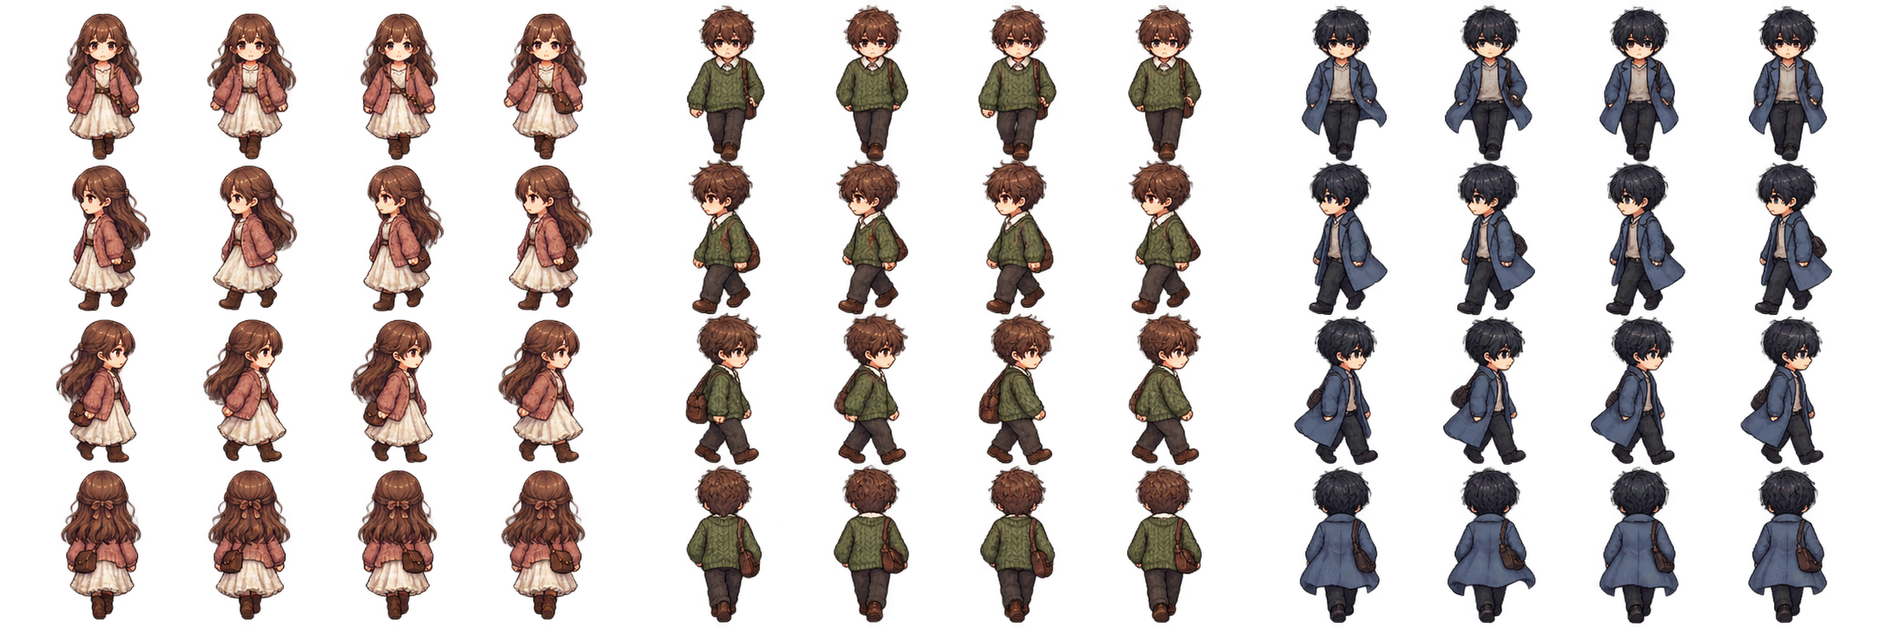
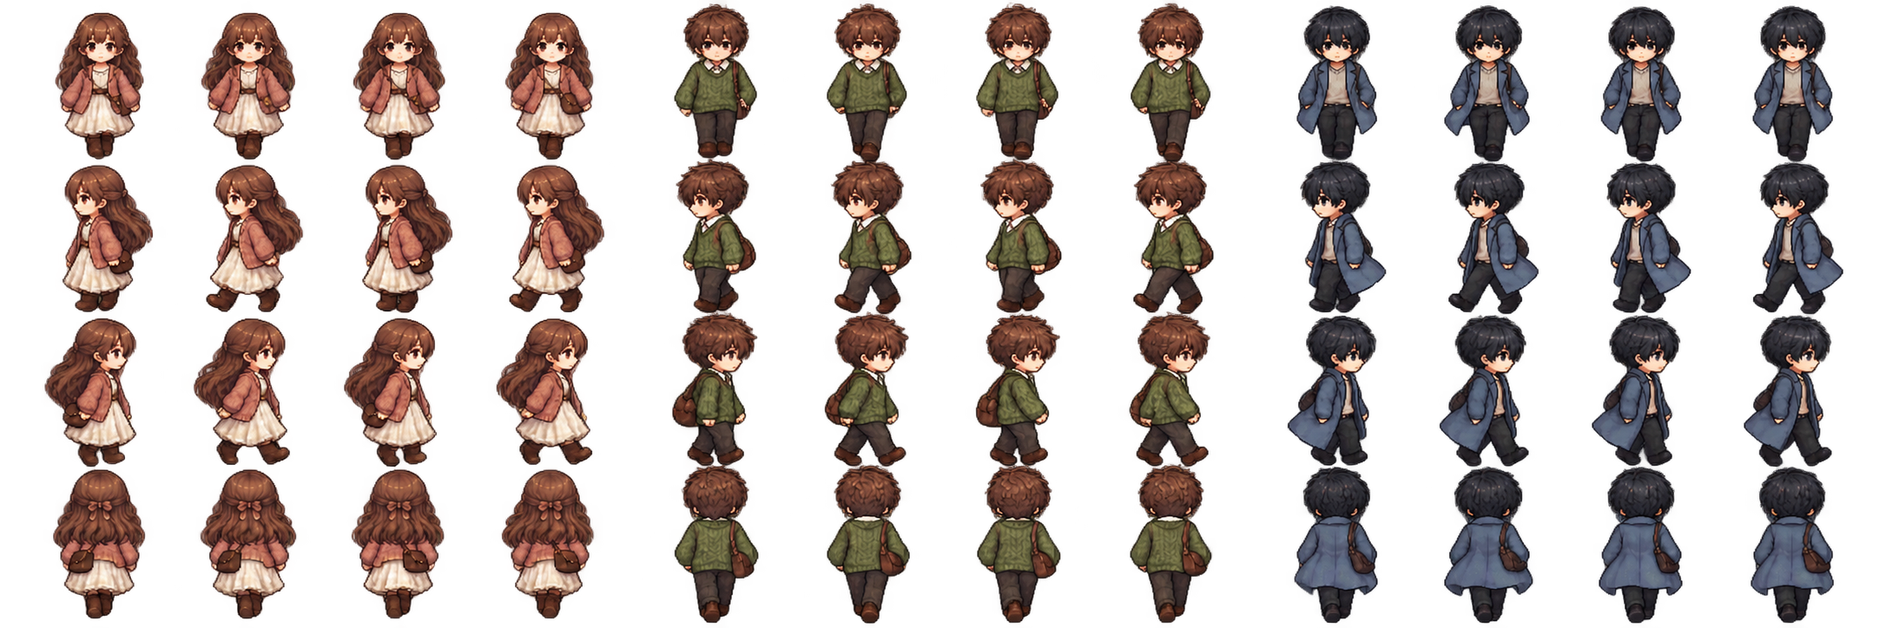
fix(world): bind character uploads and restore continuous walking with idle poses

Changed region(s): [[0.0, 0.0, 0.6478, 1.0], [0.6786, 0.0, 0.8946, 1.0], [0.9254, 0.0, 0.9871, 1.0]]

diff --git a/frontend/character-looks-ui.js b/frontend/character-looks-ui.js
@@ -11,32 +11,80 @@ async function readImage(file,{sprite=false,frames=4}={}){
 }
 export function mountCharacterLooksUI({api,getWorld,refresh,toast,report}){
   const box=node('dialog');box.id='world-looks-dialog';box.className='world-panel';
-  box.innerHTML='<header><h2>人物 · 形象</h2><button id="looks-close" aria-label="关闭人物形象">×</button></header><label>人物<select id="looks-owner"></select></label><p>形象绑定现有人物，身份设定仍在人设名册中编辑。</p><div class="looks-previews"><img id="looks-portrait" alt="对话立绘预览"><canvas id="looks-sprite" width="192" height="192" aria-label="四方向行走预览"></canvas></div><label>默认示例形象<select id="looks-skin"><option value="0">棕粉开衫</option><option value="1">苔绿毛衣</option><option value="2">蓝灰外套</option></select></label><label>对话立绘<select id="looks-portrait-choice"></select></label><label class="file-button">添加立绘（最多八张）<input id="looks-portrait-file" type="file" accept="image/png,image/jpeg,image/webp"></label><button id="looks-remove-portrait">删除所选立绘</button><hr><label>每个方向的帧数<input id="looks-frames" type="number" min="1" max="8" value="4"></label><label class="file-button">导入四方向行走 PNG<input id="looks-sprite-file" type="file" accept="image/png"></label><p>图集四行依次为下、左、右、上；每帧为正方形，脚底对齐。请先预览四个方向。</p><label>预览方向<select id="looks-direction"><option value="down">向下</option><option value="left">向左</option><option value="right">向右</option><option value="up">向上</option></select></label><button id="looks-reset-sprite">恢复默认小人</button><button id="looks-save" class="primary">保存人物形象</button><p id="looks-status" role="status"></p>';
+  box.innerHTML=`<header class="looks-heading"><div class="looks-title"><h2>人物形象</h2><button id="looks-close" aria-label="关闭人物形象">× 关闭</button></div>
+    <label>正在修改的人物<select id="looks-owner"></select></label>
+    <nav class="looks-tabs" aria-label="人物图片"><button id="looks-tab-portrait" aria-pressed="true">对话立绘</button><button id="looks-tab-sprite" aria-pressed="false">像素小人</button></nav></header>
+    <div class="looks-scroll">
+      <section id="looks-portrait-panel"><h3><span class="looks-person-name"></span>的对话立绘</h3><p>显示在底部对话框的大幅人物图，可上传头像或半身像。只更换这个人物的对话图片。</p>
+        <div class="looks-previews"><img id="looks-portrait" alt="当前人物的对话立绘预览"></div>
+        <label class="file-button">上传 / 添加这个人物的立绘<input id="looks-portrait-file" type="file" accept="image/png,image/jpeg,image/webp"></label>
+        <label>对话时显示哪张图<select id="looks-portrait-choice"></select></label><button id="looks-remove-portrait">删除所选立绘</button><p>最多保存八张。可以在对话中点击人物图片切换。</p>
+      </section>
+      <section id="looks-sprite-panel" hidden><h3><span class="looks-person-name"></span>的像素小人</h3><p>用于房间里的站立和行走，与对话立绘分别上传。</p>
+        <div class="looks-previews"><canvas id="looks-sprite" width="192" height="192" aria-label="当前人物的站立与行走预览"></canvas></div>
+        <button id="looks-preview-play" aria-pressed="false">播放行走</button><p id="looks-pose" role="status">站立</p>
+        <label>小人面朝哪里（预览）<select id="looks-direction"><option value="down">正面 · 向下</option><option value="left">侧面 · 向左</option><option value="right">侧面 · 向右</option><option value="up">背面 · 向上</option></select></label>
+        <label>待上传的图片，每个方向有几张图<input id="looks-frames" type="number" min="1" max="8" value="4"></label>
+        <label class="file-button">上传 / 替换这个人物的小人 PNG<input id="looks-sprite-file" type="file" accept="image/png"></label><p id="looks-sprite-name">使用默认小人</p>
+        <p>推荐四帧：站立 → 左手右脚 → 站立 → 右手左脚。停止时显示第一帧。整张图分四行，依次放向下、向左、向右、向上的图片，每格正方形，脚底对齐。</p>
+        <div class="looks-frame-strip" aria-label="行走帧顺序"></div><p>在绘图软件中修改 PNG 后，从上面的入口重新上传，再保存。</p><button id="looks-reset-sprite">恢复这个人物的默认小人</button>
+      </section>
+      <details class="looks-default"><summary>这个人物的默认示例形象</summary><label>未上传图片时使用<select id="looks-skin"><option value="0">棕粉开衫</option><option value="1">苔绿毛衣</option><option value="2">蓝灰外套</option></select></label><p>默认示例同时提供配套立绘和小人，已上传的图片优先。</p></details>
+    </div><footer class="looks-footer"><button id="looks-save" class="primary">保存这个人物的图片</button><p id="looks-status" role="status"></p></footer>`;
   document.body.append(box);
-  let draft,people=[],timer=null,frame=0,resolveClose;
+  let draft,people=[],timer=null,frame=0,resolveClose,owner='',generation=0,playing=false,tab='portrait';
   const safe=fn=>async(...args)=>{try{await fn(...args);}catch(e){report(e);el('looks-status').textContent=e.message;toast(e.message);}};
+  function stopPreview(){clearInterval(timer);timer=null;playing=false;frame=0;el('looks-preview-play').textContent='播放行走';el('looks-preview-play').setAttribute('aria-pressed','false');el('looks-pose').textContent='站立';}
+  async function spritePreview(){
+    const value=draft,token=generation;if(!value)return;
+    await previewSprite(el('looks-sprite'),value,el('looks-direction').value,playing?frame:0,()=>token===generation);
+    if(token!==generation)return;
+    el('looks-pose').textContent=playing?(['站立','左手右脚','站立','右手左脚'][frame%4]+' · 第 '+(frame% (value.sprite?.frames||4)+1)+' 帧'):'站立 · 第 1 帧';
+    el('looks-sprite-name').textContent=value.sprite?'已上传这个人物的小人 PNG':'使用这个人物的默认小人';
+  }
+  async function frameStrip(){
+    const token=generation,value=draft,strip=el('world-looks-dialog').querySelector('.looks-frame-strip');strip.replaceChildren();
+    for(let i=0;i<(value.sprite?.frames||4);i++){
+      const card=node('figure'),c=node('canvas');c.width=96;c.height=96;card.append(c,node('figcaption',(i+1)+' · '+(['站立','左手右脚','站立','右手左脚'][i]||'行走')));strip.append(card);
+      await previewSprite(c,value,el('looks-direction').value,i,()=>token===generation);if(token!==generation)return;
+    }
+  }
   async function preview(){
-    el('looks-portrait').src=await portraitImage(draft,people.find(p=>p.id===el('looks-owner').value)?.avatar);
+    const token=generation,value=draft,src=await portraitImage(value,people.find(p=>p.id===owner)?.avatar);if(token!==generation)return;el('looks-portrait').src=src;
     const select=el('looks-portrait-choice');select.replaceChildren();
-    if(!draft.portraits.length)select.append(new Option('跟随头像 / 默认立绘','0'));
+    if(!draft.portraits.length)select.append(new Option('尚未上传 · 使用这个人物的头像或默认图','0'));
     draft.portraits.forEach((p,i)=>select.append(new Option(p.name,String(i))));select.value=String(draft.portrait);
     el('looks-remove-portrait').disabled=!draft.portraits.length;
-    await previewSprite(el('looks-sprite'),draft,el('looks-direction').value,frame++);
+    await spritePreview();await frameStrip();
   }
-  async function select(){draft=await api('/character-looks/'+el('looks-owner').value);el('looks-skin').value=String(draft.skin);el('looks-frames').value=draft.sprite?.frames||4;el('looks-status').textContent='';await preview();}
+  async function select(){
+    const token=++generation;stopPreview();owner=el('looks-owner').value;draft=null;el('looks-save').disabled=true;
+    for(const n of box.querySelectorAll('.looks-person-name'))n.textContent=people.find(p=>p.id===owner)?.name||'';
+    const result=await api('/character-looks/'+owner);if(token!==generation)return;draft=result;
+    el('looks-skin').value=String(draft.skin);el('looks-frames').value=draft.sprite?.frames||4;el('looks-status').textContent='';await preview();el('looks-save').disabled=false;
+  }
+  function switchTab(value){tab=value;stopPreview();for(const name of ['portrait','sprite']){el('looks-'+name+'-panel').hidden=tab!==name;el('looks-tab-'+name).setAttribute('aria-pressed',String(tab===name));}el('world-looks-dialog').querySelector('.looks-scroll').scrollTop=0;void safe(spritePreview)();}
+  el('looks-tab-portrait').onclick=()=>switchTab('portrait');el('looks-tab-sprite').onclick=()=>switchTab('sprite');
+  el('looks-direction').onchange=safe(async()=>{stopPreview();await spritePreview();await frameStrip();});
+  el('looks-preview-play').onclick=safe(async()=>{
+    if(playing){stopPreview();await spritePreview();return;}
+    playing=true;frame=0;el('looks-preview-play').textContent='停止 · 回到站立';el('looks-preview-play').setAttribute('aria-pressed','true');await spritePreview();
+    timer=setInterval(()=>{frame++;spritePreview().catch(e=>{stopPreview();report(e);toast(e.message);});},120);
+  });
   el('looks-owner').onchange=safe(select);
   el('looks-skin').onchange=safe(async()=>{draft.skin=Number(el('looks-skin').value);await preview();});
   el('looks-portrait-choice').onchange=safe(async()=>{draft.portrait=Number(el('looks-portrait-choice').value);await preview();});
-  el('looks-portrait-file').onchange=safe(async e=>{if(!e.target.files[0])return;if(draft.portraits.length>=8)throw Error('最多八张立绘，请先删除一张');const file=e.target.files[0];draft.portraits.push({name:file.name.replace(/\.[^.]+$/,'').slice(0,40),image:await readImage(file)});draft.portrait=draft.portraits.length-1;e.target.value='';await preview();});
+  el('looks-portrait-file').onchange=safe(async e=>{if(!e.target.files[0]||!draft)return;if(draft.portraits.length>=8)throw Error('最多八张立绘，请先删除一张');const token=generation,value=draft,file=e.target.files[0],image=await readImage(file);e.target.value='';if(token!==generation||!box.open)return;value.portraits.push({name:file.name.replace(/\.[^.]+$/,'').slice(0,40),image});value.portrait=value.portraits.length-1;await preview();});
   el('looks-remove-portrait').onclick=safe(async()=>{draft.portraits.splice(draft.portrait,1);draft.portrait=0;await preview();});
-  el('looks-sprite-file').onchange=safe(async e=>{if(!e.target.files[0])return;const frames=Number(el('looks-frames').value);if(!Number.isInteger(frames)||frames<1||frames>8)throw Error('帧数须为 1–8');draft.sprite={image:await readImage(e.target.files[0],{sprite:true,frames}),frames};e.target.value='';await preview();});
+  el('looks-sprite-file').onchange=safe(async e=>{if(!e.target.files[0]||!draft)return;const frames=Number(el('looks-frames').value),token=generation,value=draft;if(!Number.isInteger(frames)||frames<1||frames>8)throw Error('帧数须为 1–8');const image=await readImage(e.target.files[0],{sprite:true,frames});e.target.value='';if(token!==generation||!box.open)return;stopPreview();value.sprite={image,frames};await preview();});
   el('looks-reset-sprite').onclick=safe(async()=>{draft.sprite=null;await preview();});
-  el('looks-save').onclick=safe(async()=>{await api('/character-looks/'+el('looks-owner').value,'PATCH',draft);await refresh({light:true});el('looks-status').textContent='人物形象已保存';toast('人物形象已保存');});
+  el('looks-save').onclick=safe(async()=>{if(!draft)return;const id=owner,token=generation,value=JSON.parse(JSON.stringify(draft));await api('/character-looks/'+id,'PATCH',value);await refresh({light:true});if(token===generation)el('looks-status').textContent='人物形象已保存';toast((people.find(p=>p.id===id)?.name||'人物')+'的图片已保存');});
   el('looks-close').onclick=()=>box.close();
-  box.addEventListener('close',()=>{clearInterval(timer);timer=null;resolveClose?.();resolveClose=null;});
+  box.addEventListener('close',()=>{generation++;stopPreview();resolveClose?.();resolveClose=null;});
+  document.addEventListener('visibilitychange',()=>{if(document.hidden&&box.open){stopPreview();void safe(spritePreview)();}});
   return {async open(id){
     people=[{id:'user',name:'我'},...await api('/characters')];el('looks-owner').replaceChildren(...people.map(p=>new Option(p.name,p.id)));if(people.some(p=>p.id===id))el('looks-owner').value=id;
-    await select();box.showModal();timer=setInterval(()=>{if(draft)previewSprite(el('looks-sprite'),draft,el('looks-direction').value,frame++).catch(e=>{clearInterval(timer);report(e);});},160);
+    await select();box.showModal();switchTab('portrait');
     return new Promise(resolve=>{resolveClose=resolve;});
   }};
 }

diff --git a/frontend/world-ui.js b/frontend/world-ui.js
@@ -28,7 +28,7 @@ export async function showWorldSource(api,ref,owner){
   const close=node('button','关闭');close.onclick=()=>d.close();d.replaceChildren(node('h2','世界事件来源'),close,node('p',e.id+' · '+e.created_at+' · '+e.location),node('pre',e.content),node('p','来源：'+e.source.type),node('p','知情依据：'+e.observations.filter(o=>o.owner_id===owner).map(o=>o.kind==='witness'?'在场观察':'听到对话').join('、')));if(!d.open)d.showModal();
 }
 export function mountWorldUI({api,localReady,isLocal,toast,report,navigate,speak,stopSpeech}){
-  let world,busy=false,pending=null,animation=0,resolveAnimation=null;
+  let world,busy=false,pending=null,animation=0,resolveAnimation=null;const walkDistances=new Map();
   const safe=fn=>async(...args)=>{try{await fn(...args);}catch(e){report(e);toast(e.message);el('world-action-status').textContent=e.message;}};
   const button=(text,fn)=>{const b=node('button',text);b.type='button';b.onclick=safe(fn);return b;};
   const lifeUI=mountResidentLifeUI({api,toast,report,refreshWorld:refresh});el('world-life-container').append(el('resident-life'));el('resident-life').open=true;
@@ -36,7 +36,7 @@ export function mountWorldUI({api,localReady,isLocal,toast,report,navigate,speak
   const dialogue=mountSceneDialogue({api,localReady,getWorld:()=>world,refresh,animate:animateEvents,speak,stopSpeech,toast,report,editLook:id=>looks.open(id)});
   const joystick=mountWorldJoystick({element:el('world-joystick'),canStart:()=>!busy&&!dialogue.isBusy()&&!pending&&!el('world').hidden&&!document.querySelector('dialog[open]')&&!!world?.state.residents.length,
     step:async d=>{if(busy||el('world').hidden)return;const actor=el('world-actor').value,p=world.state.positions[actor],target={x:p.x+d.x,y:p.y+d.y};if(target.x<1||target.x>10||target.y<3||target.y>11||collision(world.state.positions,actor)[target.y*12+target.x])return;await command({request_id:uid(),type:'move',actor_id:actor,target});},
-    onRest:()=>{if(world&&!el('world').hidden)renderEvents();},onError:e=>{report(e);toast(e.message);}});
+    onRest:()=>{walkDistances.clear();if(world&&!el('world').hidden){drawWorld(el('world-canvas'),world);renderEvents();}},onError:e=>{report(e);toast(e.message);}});
   const menu=el('world-menu').querySelector('.world-menu-grid');
   for(const [label,icon,fn] of [
     ['人物','♙',()=>looks.open('user')],['居民生活','☀',async()=>{await lifeUI.refresh();el('world-life-panel').showModal();}],['世界记录','▤',()=>{renderEvents();el('world-events-panel').showModal();}],
@@ -44,7 +44,7 @@ export function mountWorldUI({api,localReady,isLocal,toast,report,navigate,speak
   ]){const b=button('',async()=>{el('world-menu').close();await fn();}),i=node('span',icon);i.setAttribute('aria-hidden','true');i.className='world-menu-icon';i.textContent='';const n=menu.children.length;i.style.backgroundPosition=(n%3*50)+'% '+(Math.floor(n/3)*50)+'%';b.append(i,node('span',label));menu.append(b);}
   el('world-menu-open').onclick=safe(async()=>{joystick.stop();dialogue.close();el('world-menu').showModal();});
   function stopAnimation(){cancelAnimationFrame(animation);resolveAnimation?.();resolveAnimation=null;}
-  async function refresh({light=false}={}){
+  async function refresh({light=false,paint=true}={}){
     stopAnimation();
     if(!isLocal()){el('world-notice').textContent='世界使用本机数据，请在设置切换到本机模式。';el('world-notice').hidden=false;el('world-play').hidden=true;return;}
     world=await api('/world');await loadWorldArt(world);document.body.classList.add('world-active');
@@ -58,7 +58,7 @@ export function mountWorldUI({api,localReady,isLocal,toast,report,navigate,speak
     if(!light){const actor=el('world-actor'),chosen=actor.value;actor.replaceChildren(...[['user','我'],...world.residents.map(r=>[r.id,r.name])].map(([id,name])=>new Option(name,id)));if(world.state.positions[chosen])actor.value=chosen;await lifeUI.refresh();}
     el('world-time').textContent=(world.state.lamp?'暖灯亮着':'灯已熄灭')+' · '+world.state.residents.length+' 位居民';
     el('world-user-avatar').src=await portraitImage(world.looks.user);
-    drawWorld(el('world-canvas'),world);renderPlaces();if(!light)renderEvents();
+    if(paint)drawWorld(el('world-canvas'),world);renderPlaces();if(!light)renderEvents();
   }
   function renderPlaces(){
     const actor=el('world-actor').value||'user',p=world.state.positions[actor],list=el('world-places');list.replaceChildren();
@@ -75,16 +75,16 @@ export function mountWorldUI({api,localReady,isLocal,toast,report,navigate,speak
       list.append(card);
     }
   }
-  function animatePath(actor,path){
-    stopAnimation();const start=performance.now(),duration=Math.max(140,Math.min(1600,(path.length-1)*150));
+  function animatePath(actor,path,positions){
+    stopAnimation();const start=performance.now(),duration=(path.length-1)*200,travelled=walkDistances.get(actor)||0;
     return new Promise((resolve,reject)=>{
       resolveAnimation=resolve;
       const frame=now=>{try{
         if(el('world').hidden){resolveAnimation=null;resolve();return;}
         const fraction=Math.max(0,Math.min(1,(now-start)/duration)),step=fraction*(path.length-1),i=Math.floor(step),a=path[i],b=path[Math.min(i+1,path.length-1)];
         const direction=b.x>a.x?'right':b.x<a.x?'left':b.y>a.y?'down':b.y<a.y?'up':world.state.facing[actor];
-        drawWorld(el('world-canvas'),world,{...world.state.positions,[actor]:{x:a.x+(b.x-a.x)*(step-i),y:a.y+(b.y-a.y)*(step-i)}},{[actor]:{walking:fraction<1,direction}});
-        if(fraction<1)animation=requestAnimationFrame(frame);else{resolveAnimation=null;resolve();}
+        drawWorld(el('world-canvas'),world,{...positions,[actor]:{x:a.x+(b.x-a.x)*(step-i),y:a.y+(b.y-a.y)*(step-i)}},{[actor]:{walking:fraction<1||joystick.isMoving(),direction,distance:travelled+step}});
+        if(fraction<1)animation=requestAnimationFrame(frame);else{walkDistances.set(actor,travelled+path.length-1);resolveAnimation=null;resolve();}
       }catch(e){resolveAnimation=null;reject(e);}};animation=requestAnimationFrame(frame);
     });
   }
@@ -94,7 +94,7 @@ export function mountWorldUI({api,localReady,isLocal,toast,report,navigate,speak
       const c=e.source.command,actor=c?.actor_id||'user';if(!c||!positions[actor])continue;
       if(c.type==='move'){
         const p=positions[actor],path=findPath(collision(positions,actor),12,13,p.x,p.y,c.target.x,c.target.y).path;
-        if(path.length>1)await animatePath(actor,path);positions[actor]=c.target;
+        if(path.length>1)await animatePath(actor,path,positions);positions[actor]=c.target;
       }else if(c.type==='interact'){
         const started=performance.now();await new Promise(resolve=>{resolveAnimation=resolve;const frame=now=>{if(el('world').hidden||now-started>420){resolveAnimation=null;drawWorld(el('world-canvas'),world);resolve();return;}drawWorld(el('world-canvas'),world,world.state.positions,{[actor]:{using:true,action:c.target_id}});animation=requestAnimationFrame(frame);};animation=requestAnimationFrame(frame);});
       }
@@ -103,7 +103,7 @@ export function mountWorldUI({api,localReady,isLocal,toast,report,navigate,speak
   }
   async function command(value){
     if(busy||dialogue.isBusy())throw Error('请等待当前操作完成');busy=true;pending=value;el('world-retry').hidden=true;const previous=world;
-    try{await api('/world/commands','POST',value);pending=null;await refresh({light:true});await animateEvents(previous,world);el('world-action-status').textContent=value.type==='interact'?world.state.events[world.state.events.length-1].content:'';}
+    try{await api('/world/commands','POST',value);pending=null;await refresh({light:true,paint:false});await animateEvents(previous,world);el('world-action-status').textContent=value.type==='interact'?world.state.events[world.state.events.length-1].content:'';}
     catch(e){el('world-retry').hidden=false;throw e;}finally{busy=false;renderPlaces();}
   }
   async function approach(f){

diff --git a/frontend/app.js b/frontend/app.js
@@ -352,9 +352,9 @@ window.addEventListener('pagehide',saveDraft);
 setInterval(async()=>{if((mode==='remote'&&!backend)||busy||document.hidden)return;try{await refreshContacts();const remote=contacts.find(c=>c.id===current?.id);const lastId=last(items.filter(m=>m.role==='assistant'))?.id||0;if(current&&(items.some(m=>m.state==='generating')||(remote?.last_assistant_id||0)>lastId)){const box=el('messages');if(!hasAfter&&box.scrollHeight-box.scrollTop-box.clientHeight<180)await loadLatest();else el('latest').hidden=false;}}catch(e){status('连接中断，正在等待恢复');}},5000);
 window.addEventListener('focus',guard(async()=>{if((mode==='local'||backend)&&!busy){await refreshContacts();const box=el('messages');if(current&&!hasAfter&&box.scrollHeight-box.scrollTop-box.clientHeight<180)await loadLatest();}}));
 el('backend').value=backend;el('token').value=token;
-const legal=node('section','card');legal.append(node('h2','','关于与更新'),node('p','','T- 0.13.0 试用版 · versionCode 18 · io.jcin.tcompanion · AGPL-3.0-only。软件按现状提供，不附带任何保证。可按许可证修改与再分发应用代码；导入的个人数据保留原有权利。'));
+const legal=node('section','card');legal.append(node('h2','','关于与更新'),node('p','','T- 0.13.1 试用版 · versionCode 19 · io.jcin.tcompanion · AGPL-3.0-only。软件按现状提供，不附带任何保证。可按许可证修改与再分发应用代码；导入的个人数据保留原有权利。'));
 const legalLink=node('a','','许可、署名与复用记录 →');legalLink.href=new URL('legal.html',import.meta.url).href;
-const sourceButton=node('button','','对应源码');sourceButton.onclick=guard(async()=>{if(mode==='local'){toast('对应源码在试用分发包的 T-companion-0.13.0-source.zip 中，包含构建说明与许可证。');return;}const response=await fetch(backend+'/api/v1/source',{headers:headers()});if(!response.ok)throw Error('源码导出失败，请检查后端连接和访问口令');await exportBlob(await response.blob(),'t-chat-source.zip');});
+const sourceButton=node('button','','对应源码');sourceButton.onclick=guard(async()=>{if(mode==='local'){toast('对应源码在试用分发包的 T-companion-0.13.1-source.zip 中，包含构建说明与许可证。');return;}const response=await fetch(backend+'/api/v1/source',{headers:headers()});if(!response.ok)throw Error('源码导出失败，请检查后端连接和访问口令');await exportBlob(await response.blob(),'t-chat-source.zip');});
 legal.append(legalLink,node('p','','默认渠道：公开 GitHub 试用版；可在下方设置自建更新清单。覆盖安装保留角色、聊天和设置。'),sourceButton);document.querySelector('.settings-grid').append(legal);
 mountAppUpdate(legal,native?window.Capacitor?.Plugins?.TUpdate:null,()=>busy,(label,data)=>diagnostics.record('update',label,data));
 mountDiagnostics({store:diagnostics,exportFile:exportBlob,report:e=>{reportError(e,'日志导出失败');toast(e.message);},preview:async()=>{
@@ -362,7 +362,7 @@ mountDiagnostics({store:diagnostics,exportFile:exportBlob,report:e=>{reportError
   if(!current)throw Error('请先打开一个聊天，再回到这里查看预览。');
   return api(`/contacts/${current.id}/context-preview`,'POST',{message:el('input').value});
 }});
-diagnosticsReady.then(()=>diagnostics.record('system','应用启动',{version:'0.13.0-trial',platform:native?'android':'browser'}));
+diagnosticsReady.then(()=>diagnostics.record('system','应用启动',{version:'0.13.1-trial',platform:native?'android':'browser'}));
 window.tGoBack=()=>{const dialog=last([...document.querySelectorAll('dialog[open]')]);if(dialog){dialog.close();return true;}const phone=document.querySelector('.phone');if(phone.classList.contains('in-chat')){chatOpen=false;app('chat');return true;}if(activeApp!=='home'){app('home');return true;}return false;};
 async function refreshSettings(){
  prefs=await api('/settings');showPreferences();await preferences.refresh(prefs);

diff --git a/frontend/world.css b/frontend/world.css
@@ -50,3 +50,22 @@ body.world-talking #world .world-stage{bottom:min(310px,50vh)}body.world-talking
 body.world-active #api-floating-switcher{display:none}
 
 .world-menu-grid .world-menu-icon{width:60px;height:55px;background-image:url(assets/world/menu-icons.png);background-size:300% 300%;image-rendering:pixelated}
+
+/* The selected person, navigation and exit never scroll away. */
+#world-looks-dialog{position:fixed;top:7vh;top:7dvh;right:0;bottom:auto;left:0;margin:0 auto;padding:0;width:calc(100% - 20px);max-width:420px;overflow:hidden;height:86vh;height:86dvh}
+#world-looks-dialog[open]{display:flex;flex-direction:column}
+#world-looks-dialog .looks-heading{display:block;flex-shrink:0;margin:0;padding:12px 14px 0;border-bottom:1px solid #c39a73;background:#f6e6c7}
+.looks-title{display:flex;align-items:center;justify-content:space-between;gap:10px}
+#world-looks-dialog #looks-close{font-size:14px;min-width:68px;min-height:44px}
+.looks-heading label{display:block;font-size:12px;margin:8px 0}.looks-heading select{margin-top:5px;padding:8px}
+.looks-tabs{display:flex;gap:8px}.looks-tabs button{flex:1;border-radius:4px 4px 0 0;border-color:#c39a73;background:#ead1af}
+.looks-tabs button[aria-pressed=true]{background:#986344;color:#fff4dc}
+.looks-scroll{min-height:0;overflow:auto;overscroll-behavior:contain;padding:14px;flex:1}
+.looks-scroll section[hidden]{display:none}.looks-scroll h3{font-size:16px;margin:0 0 8px}.looks-scroll p{margin:8px 0 12px}
+.looks-scroll label{display:block;font-size:12px;margin:12px 0}.looks-scroll select,.looks-scroll input{margin-top:6px}
+#world-looks-dialog .looks-previews{justify-content:center;min-height:150px}.looks-previews img{height:180px;width:130px}
+#world-looks-dialog .file-button{background:#fff4dc;border:2px dashed #b88358;border-radius:5px;color:#755145;font-weight:600;padding:12px}
+#world-looks-dialog input[type=file]{font-weight:normal;border:0;padding:8px 0 0}
+.looks-footer{flex-shrink:0;background:#f6e6c7;border-top:1px solid #c39a73;padding:10px 14px}.looks-footer button{width:100%}.looks-footer p{margin:5px 0 0;min-height:16px}
+.looks-default{margin-top:18px;border-top:1px solid #c39a73;padding-top:10px;font-size:12px}
+.looks-frame-strip{display:grid;grid-template-columns:repeat(4,minmax(0,1fr));gap:4px}.looks-frame-strip figure{margin:0;text-align:center}.looks-frame-strip canvas{width:100%;height:auto;image-rendering:pixelated}.looks-frame-strip figcaption{font-size:10px}

diff --git a/frontend/world-art.js b/frontend/world-art.js
@@ -3,6 +3,8 @@
 const root=new URL('./assets/world/',import.meta.url).href;
 const images=new Map(),ready=new Map();
 export const art={room:root+'warm-room.png',sprites:root+'residents.png',portraits:root+'portraits.png'};
+// One cycle spans two tiles. The first frame is also the resting pose.
+export function walkFrame(distance,frames=4){return Math.floor(Math.max(0,distance)*frames/2)%frames;}
 async function load(src){
   if(!src)return;
   if(!images.has(src))images.set(src,new Promise((resolve,reject)=>{const image=new Image();image.onload=()=>resolve(image);image.onerror=()=>{images.delete(src);reject(Error('人物或房间图片加载失败'));};image.src=src;}));
@@ -26,7 +28,7 @@ export function drawActor(c,world,id,p,pose={},time=performance.now()){
   const image=ready.get(look.sprite?.image||art.sprites),frames=look.sprite?.frames||4;
   const row={down:0,left:1,right:2,up:3}[pose.direction||world.state.facing[id]||'down'];
   const cols=look.sprite?frames:12,fw=image.width/cols,fh=image.height/4;
-  const frame=pose.walking?Math.floor(time/140)%frames:0,col=look.sprite?frame:look.skin*4+frame;
+  const frame=pose.walking?walkFrame(pose.distance||0,frames):0,col=look.sprite?frame:look.skin*4+frame;
   const size=Math.round(width*.24),lift=pose.using?Math.sin(time/90)*2:0;
   c.fillStyle='#342b3340';c.beginPath();c.ellipse(point.x,point.y-2,size*.25,size*.07,0,0,Math.PI*2);c.fill();
   c.drawImage(image,col*fw,row*fh,fw,fh,Math.round(point.x-size/2),Math.round(point.y-size+lift),size,size);
@@ -44,8 +46,9 @@ export async function portraitImage(look,avatar){
   canvas.getContext('2d').drawImage(image,look.skin*image.width/3,0,image.width/3,image.height,0,0,256,512);
   return canvas.toDataURL('image/png');
 }
-export async function previewSprite(canvas,look,direction,frame){
+export async function previewSprite(canvas,look,direction,frame,valid=()=>true){
   const image=await load(look.sprite?.image||art.sprites),frames=look.sprite?.frames||4,cols=look.sprite?frames:12;
+  if(!valid())return;
   const col=(look.sprite?0:look.skin*4)+frame%frames,row={down:0,left:1,right:2,up:3}[direction],c=canvas.getContext('2d');
   c.clearRect(0,0,canvas.width,canvas.height);c.imageSmoothingEnabled=false;
   c.drawImage(image,col*image.width/cols,row*image.height/4,image.width/cols,image.height/4,0,0,canvas.width,canvas.height);

diff --git a/frontend/legal.html b/frontend/legal.html
@@ -174,6 +174,8 @@ Canvas rendering, room geometry, command/observation persistence and UI are orig
 
 # Original world artwork and visual adaptation (0.13.0)
 
+0.13.1 revises only the project's original `residents.png` through the same built-in image_gen tool to use standing/contact/standing/opposite-contact frames. The replacement and predecessor hashes and revised brief are recorded in the existing asset manifest. The other three production images retain their original bytes and provenance.
+
 - `frontend/assets/world/`: four original production PNGs generated for this project with the built-in image_gen tool from text briefs, after approval of the visual direction. File hashes, dimensions, briefs and distribution license are recorded in `PROVENANCE.json`. No stock assets, upstream game artwork, private screenshot, real chat or user identity is bundled. These replaceable example appearances do not define roster Canon/Persona.
 - Existing Alicization Town imports above remain unchanged. `server/web/js/game.js` at the same pinned `1a33ba65d0af2134b369b1eb4eb68f45d2c817c4` was additionally reviewed for step animation (533–545) and facing/frame selection (875–883). The local renderer uses its own elapsed-time path animation and a different, generated atlas layout; the whole upstream page and art are not copied. No new third-party engine or runtime dependency.
 

diff --git a/frontend/world-dialogue-ui.js b/frontend/world-dialogue-ui.js
@@ -56,7 +56,7 @@ export function mountSceneDialogue({api,localReady,getWorld,refresh,animate,spea
     try{
       await (await localReady).stream(session.id,text,id,(type,e)=>{if(type==='delta'){streamText+=e.text;el('world-current-line').textContent=sceneText(streamText).replace(/\[世界行动:[\s\S]*$/,'');}});
       el('world-input').value='';await api('/contacts/'+session.id+'/draft','PATCH',{text:''});failedTurn=null;
-      await refresh({light:true});await animate(before,getWorld());
+      await refresh({light:true,paint:false});await animate(before,getWorld());
       const rows=await api('/contacts/'+session.id+'/messages'),last=rows.items.filter(m=>m.role==='assistant').pop();
       el('world-dialogue-status').textContent=last?.world_action?.state==='rejected'?'台词已保存；动作未执行：'+last.world_action.reason:'已保存对话与世界事件';
     }catch(e){report(e);el('world-dialogue-status').textContent=e.message;}

diff --git a/frontend/world-joystick.js b/frontend/world-joystick.js
@@ -24,7 +24,7 @@ export function createJoystickMotion({step,onError,onRest=()=>{},interval=180,sc
   }
   return {
     point(value){active=true;direction=value;needsRest=true;if(timer===null&&!inFlight&&direction)void pump();},
-    stop
+    stop,isMoving:()=>active&&!!direction
   };
 }
 
@@ -54,5 +54,5 @@ export function mountWorldJoystick({element,step,canStart,onError,onRest}){
   window.addEventListener('blur',release);
   window.addEventListener('pagehide',release);
   document.addEventListener('visibilitychange',()=>{if(document.hidden)release();});
-  return {stop:release};
+  return {stop:release,isMoving:motion.isMoving};
 }

diff --git a/docs/WORLD_VISUAL_DIALOGUE.md b/docs/WORLD_VISUAL_DIALOGUE.md
@@ -1,6 +1,20 @@
 # 暖木世界与底部对话 · 0.13.0
 
+## 0.13.1 人物图片与站立步态修正
+
+入口：世界右上头像 → 人物 → 顶部选择要修改的人物。该人物的两类资源分别保存在“对话立绘”和“像素小人”分页，各有上传/替换入口；顶部人物、分页和关闭按钮、底部保存按钮固定，只有中间内容滚动。立绘是底部对话框的大幅人物图片，可以用头像或半身像。小人是房间中的角色图，四个预览方向表示面朝哪里，不会修改人物身份或当前位置。
+
+小人推荐四列、四行透明 PNG。四行依次向下、向左、向右、向上；每行四帧按“站立 → 左手右脚 → 站立 → 右手左脚”排列，格子为正方形、脚底对齐。第一帧用于停止时站立。仍兼容原 1–8 帧图集，已有自定义图片不自动改写；若原第一帧不是站立，应在绘图软件修改后重新上传。新示例图集按该顺序重新生成，来源哈希见原素材清单。
+
+预览默认站立，点击“播放行走”才循环，停止、换人物、换分页、关闭或进入后台时停止预览。行走选帧按实际动画行进距离连续推进，四帧跨两格；每格保持 200 ms，不再对长路径压缩速度。保存命令后只刷新状态和交互按钮，路径播放前不先画终点，修复一格一格跳回的画面。摇杆松开后完成已保存的一步并站立，原碰撞、事件、重试和 SQLite 写入流程保留。
+
+图片仍以原名册 ID 分开保存；异步文件读取完成前切换人物会丢弃该次未接受图片，不能落到另一个人物上。无需数据迁移，也不新增模型请求或业务库。未导入第三方运行代码；复用已有 Canvas、路径和图片验证接口，修改仅涉及显示与输入适配。
+
+验收：114 项 Node、97 项 Python 通过；原视觉与摇杆浏览器回归通过。`tests/world-motion-browser.mjs` 实际记录 Canvas 选帧和插值位置，验证四帧、停止站立、无终点闪跳、分人物双类上传、延迟读取隔离、滚动关闭和重载保存。`tests/world-motion-android.mjs` 在专用 Android 11 / Chrome 83 WebView 上使用原生触屏和 screencap 验证摇杆、四帧、站立、分页、完整弹窗及滚动关闭，原签名覆盖安装保留合成数据。针对旧 WebView，弹窗显式固定在视口内，避免只检查 DOM 打开状态而漏掉弹窗被排到屏幕外的问题。模型调用均为零；未验证真机。
+
 基线 `feat/world-joystick@d3d3fb0`，独立分支 `feat/world-visual-dialogue`。按确认的视觉稿实现暖木房间、三个人物、底部立绘对话、回放与头像菜单，保留既有世界、聊天、名册、模型配置、记忆与居民生活。
+
+Android 文件上传边界：本轮原生触屏已打开系统 DocumentsUI，显示合成 PNG，但没有完成原生文件选择到保存的验收；完整上传/替换/保存/重载由手机浏览器脚本验证。不将该结果写成 Android 原生上传全流程已通过。
 
 ## 使用
 

diff --git a/README.md b/README.md
@@ -1,6 +1,6 @@
 # T- · 联系人式陪伴聊天
 
-当前 Android 试用版为 0.13.0，新增暖木像素画面、四方向人物、底部立绘对话与台词回放、附近交互和头像菜单，保留居民活动与主动分享。见 [世界画面与对话](docs/WORLD_VISUAL_DIALOGUE.md)、[摇杆操作](docs/WORLD_JOYSTICK.md)、[居民生活](docs/RESIDENT_LIFE.md) 和 [内置记忆数据流与验证](docs/ANDROID_EMBEDDED_MEMORY.md)。桌面保留聊天、人设名册、设置、外观、运行日志、记忆和自我入口。Android 默认本机独立运行，不依赖 Windows 或 T- 应用服务器；共同后端是另一种可选数据源，没有自动同步。
+当前 Android 试用版为 0.13.1，在暖木像素世界中修正站立/行走步态、人物立绘与小人的分别上传，以及滚动时的关闭入口，保留底部对话回放、居民活动与主动分享。见 [世界画面与对话](docs/WORLD_VISUAL_DIALOGUE.md)、[摇杆操作](docs/WORLD_JOYSTICK.md)、[居民生活](docs/RESIDENT_LIFE.md) 和 [内置记忆数据流与验证](docs/ANDROID_EMBEDDED_MEMORY.md)。桌面保留聊天、人设名册、设置、外观、运行日志、记忆和自我入口。Android 默认本机独立运行，不依赖 Windows 或 T- 应用服务器；共同后端是另一种可选数据源，没有自动同步。
 
 开始开发先读 [当前架构与数据流](docs/CURRENT_ARCHITECTURE.md)、[术语](GLOSSARY.md)、[维护规范](CONTRIBUTING.md) 和 [AGENTS.md](AGENTS.md)。公开前结论与候选方案见 [公开审计](docs/PUBLICATION_AUDIT.md)。
 
@@ -24,7 +24,7 @@ python -m venv .venv
 
 ## Android 试用
 
-网页资源内置 APK。打开桌面 → 人设名册创建角色 → 设置配置模型 API 并测试 → 发起聊天。无需填写共同后端地址或口令。包名 `io.jcin.tcompanion`，版本 `0.13.0-trial`，versionCode `18`，沿用旧版试用签名，覆盖安装保留本机数据。不要卸载旧版。
+网页资源内置 APK。打开桌面 → 人设名册创建角色 → 设置配置模型 API 并测试 → 发起聊天。无需填写共同后端地址或口令。包名 `io.jcin.tcompanion`，版本 `0.13.1-trial`，versionCode `19`，沿用旧版试用签名，覆盖安装保留本机数据。不要卸载旧版。
 
 架构、构建与数据迁移见 [本机客户端说明](docs/LOCAL-ANDROID.md)，当前记忆功能及验收见 [0.6.0 说明](docs/MEMORY-0.6.md)；早期独立聊天验收见 [0.3.0 交付记录](docs/DELIVERY_LOCAL.md)。旧版后端式 APK 说明保留作历史资料。
 

diff --git a/THIRD_PARTY_NOTICES.md b/THIRD_PARTY_NOTICES.md
@@ -174,5 +174,7 @@ Canvas rendering, room geometry, command/observation persistence and UI are orig
 
 # Original world artwork and visual adaptation (0.13.0)
 
+0.13.1 revises only the project's original `residents.png` through the same built-in image_gen tool to use standing/contact/standing/opposite-contact frames. The replacement and predecessor hashes and revised brief are recorded in the existing asset manifest. The other three production images retain their original bytes and provenance.
+
 - `frontend/assets/world/`: four original production PNGs generated for this project with the built-in image_gen tool from text briefs, after approval of the visual direction. File hashes, dimensions, briefs and distribution license are recorded in `PROVENANCE.json`. No stock assets, upstream game artwork, private screenshot, real chat or user identity is bundled. These replaceable example appearances do not define roster Canon/Persona.
 - Existing Alicization Town imports above remain unchanged. `server/web/js/game.js` at the same pinned `1a33ba65d0af2134b369b1eb4eb68f45d2c817c4` was additionally reviewed for step animation (533–545) and facing/frame selection (875–883). The local renderer uses its own elapsed-time path animation and a different, generated atlas layout; the whole upstream page and art are not copied. No new third-party engine or runtime dependency.
